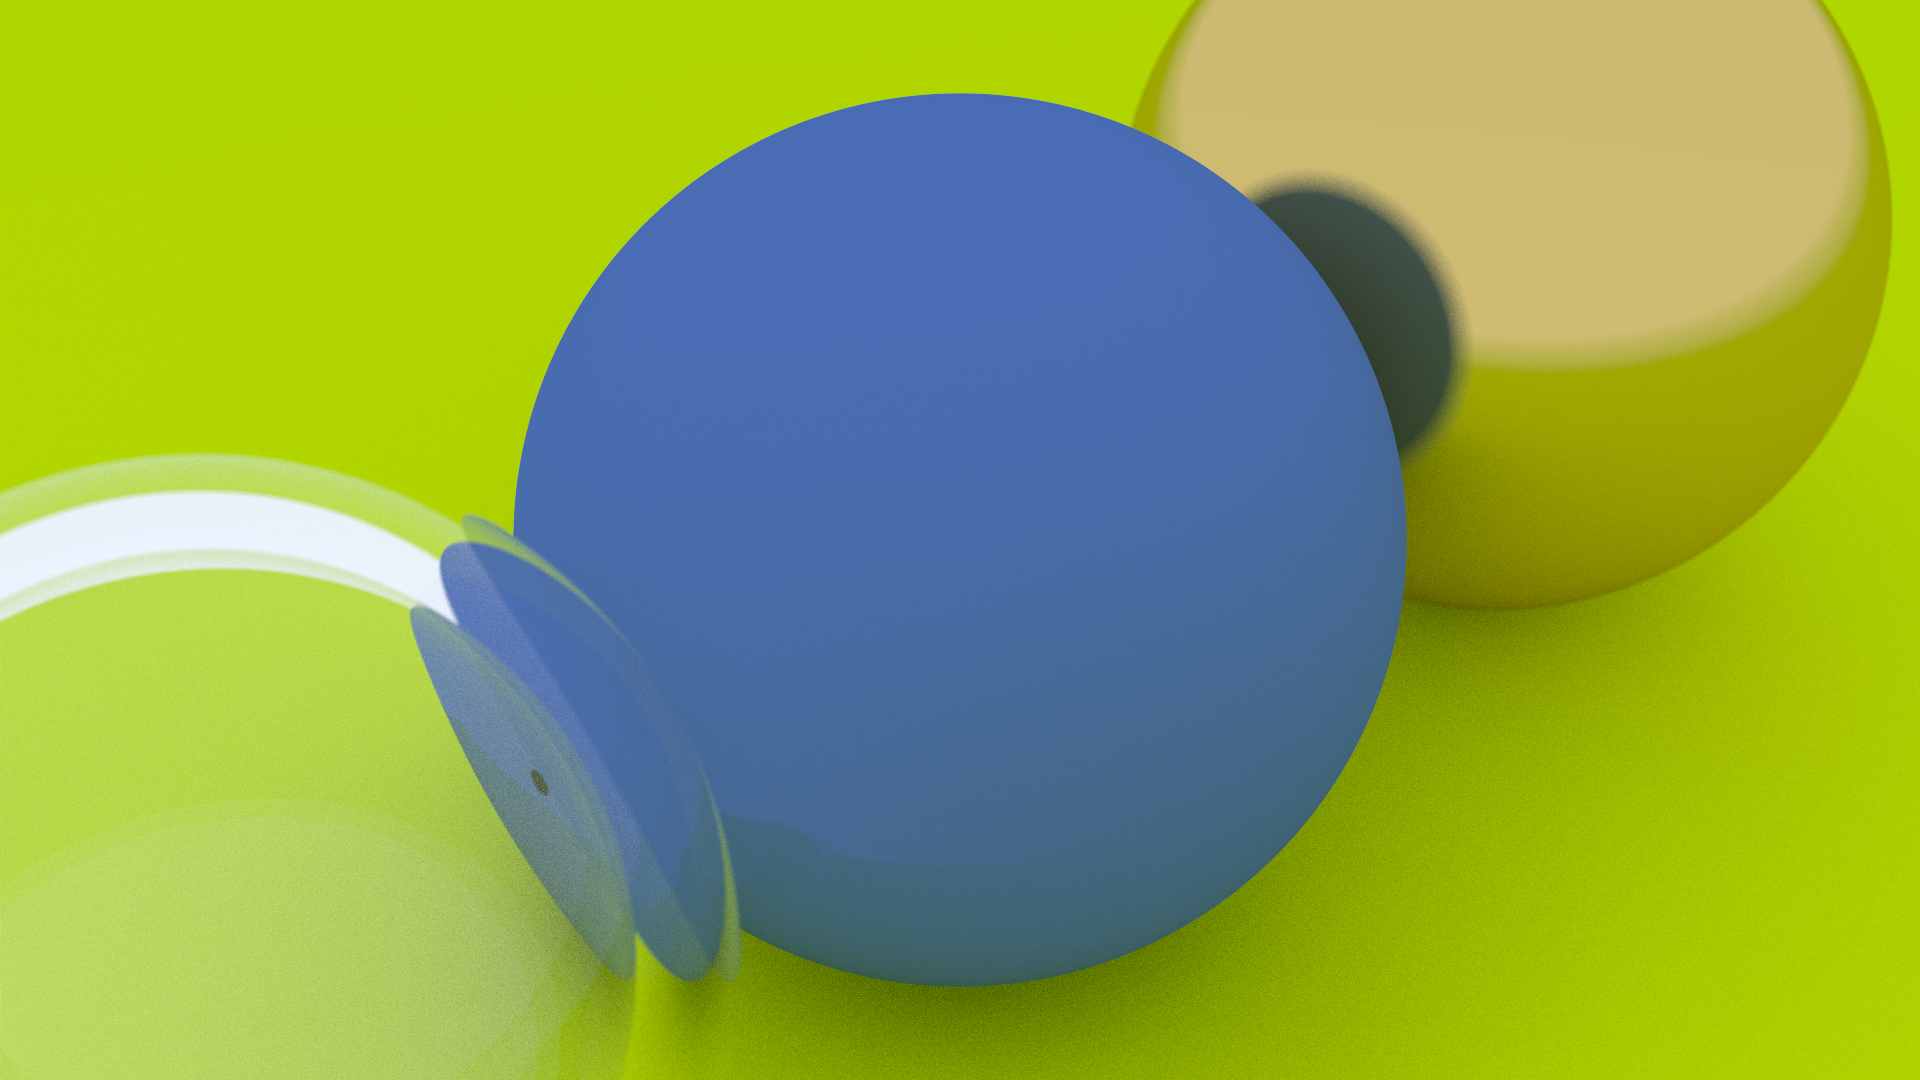
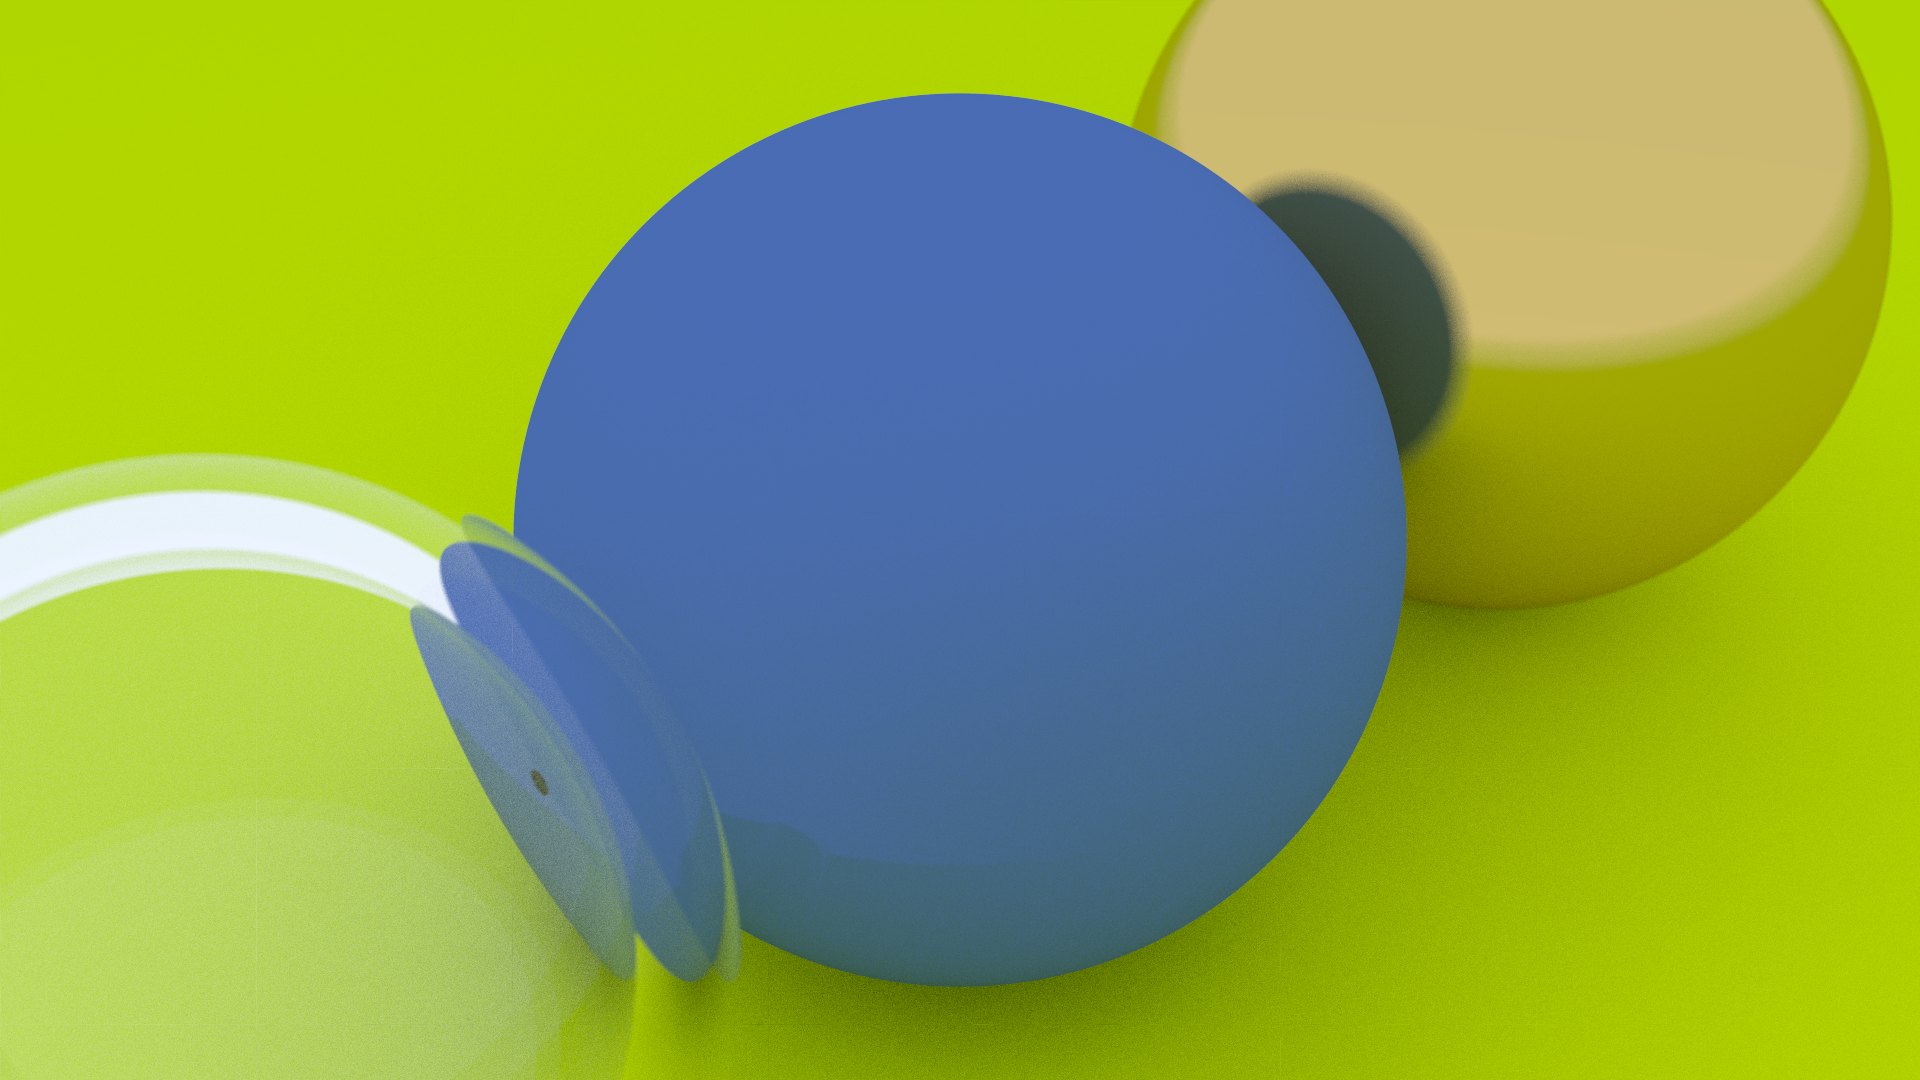
tiled working

Changed region(s): [[0.0, 0.55, 0.3438, 1.0], [0.1875, 0.4583, 0.2188, 0.4889]]

diff --git a/webray/src/renderer/kernel.rs b/webray/src/renderer/kernel.rs
@@ -72,6 +72,8 @@ impl Kernel {
                             height
                         );
 
+                        self.render_tile(gpu, tile_position * size, width, height, bindings, buffers);
+
                         id += 1;
                     }
                 }
@@ -131,28 +133,6 @@ impl Kernel {
             pass.set_bind_group(2, bindings.execution_binding.as_ref().unwrap(), &[]);
             pass.dispatch_workgroups(width, height, 1);
         }
-
-        // encoder.copy_texture_to_buffer(
-        //     wgpu::ImageCopyTexture {
-        //         texture: &buffers.render,
-        //         mip_level: 0,
-        //         origin: wgpu::Origin3d::ZERO,
-        //         aspect: wgpu::TextureAspect::All,
-        //     },
-        //     wgpu::ImageCopyBuffer {
-        //         buffer: &buffers.result,
-        //         layout: wgpu::ImageDataLayout {
-        //             offset: 0,
-        //             bytes_per_row: Some(kernel_config.image.width * 4),
-        //             rows_per_image: Some(kernel_config.image.height),
-        //         },
-        //     },
-        //     wgpu::Extent3d {
-        //         width: kernel_config.image.width,
-        //         height: kernel_config.image.height,
-        //         depth_or_array_layers: 1,
-        //     },
-        // );
 
         // Submit commands
         let submission_index = gpu.queue.submit([encoder.finish()]);

diff --git a/webray/src/lib.rs b/webray/src/lib.rs
@@ -122,7 +122,7 @@ pub fn create_demo_config() -> Config {
         height: 1080,
         samples: 128,
         bounces: 32,
-        tile_size: TileSize::Full
+        tile_size: TileSize::Square(256)
     };
 
     let camera_config = CameraConfig {
